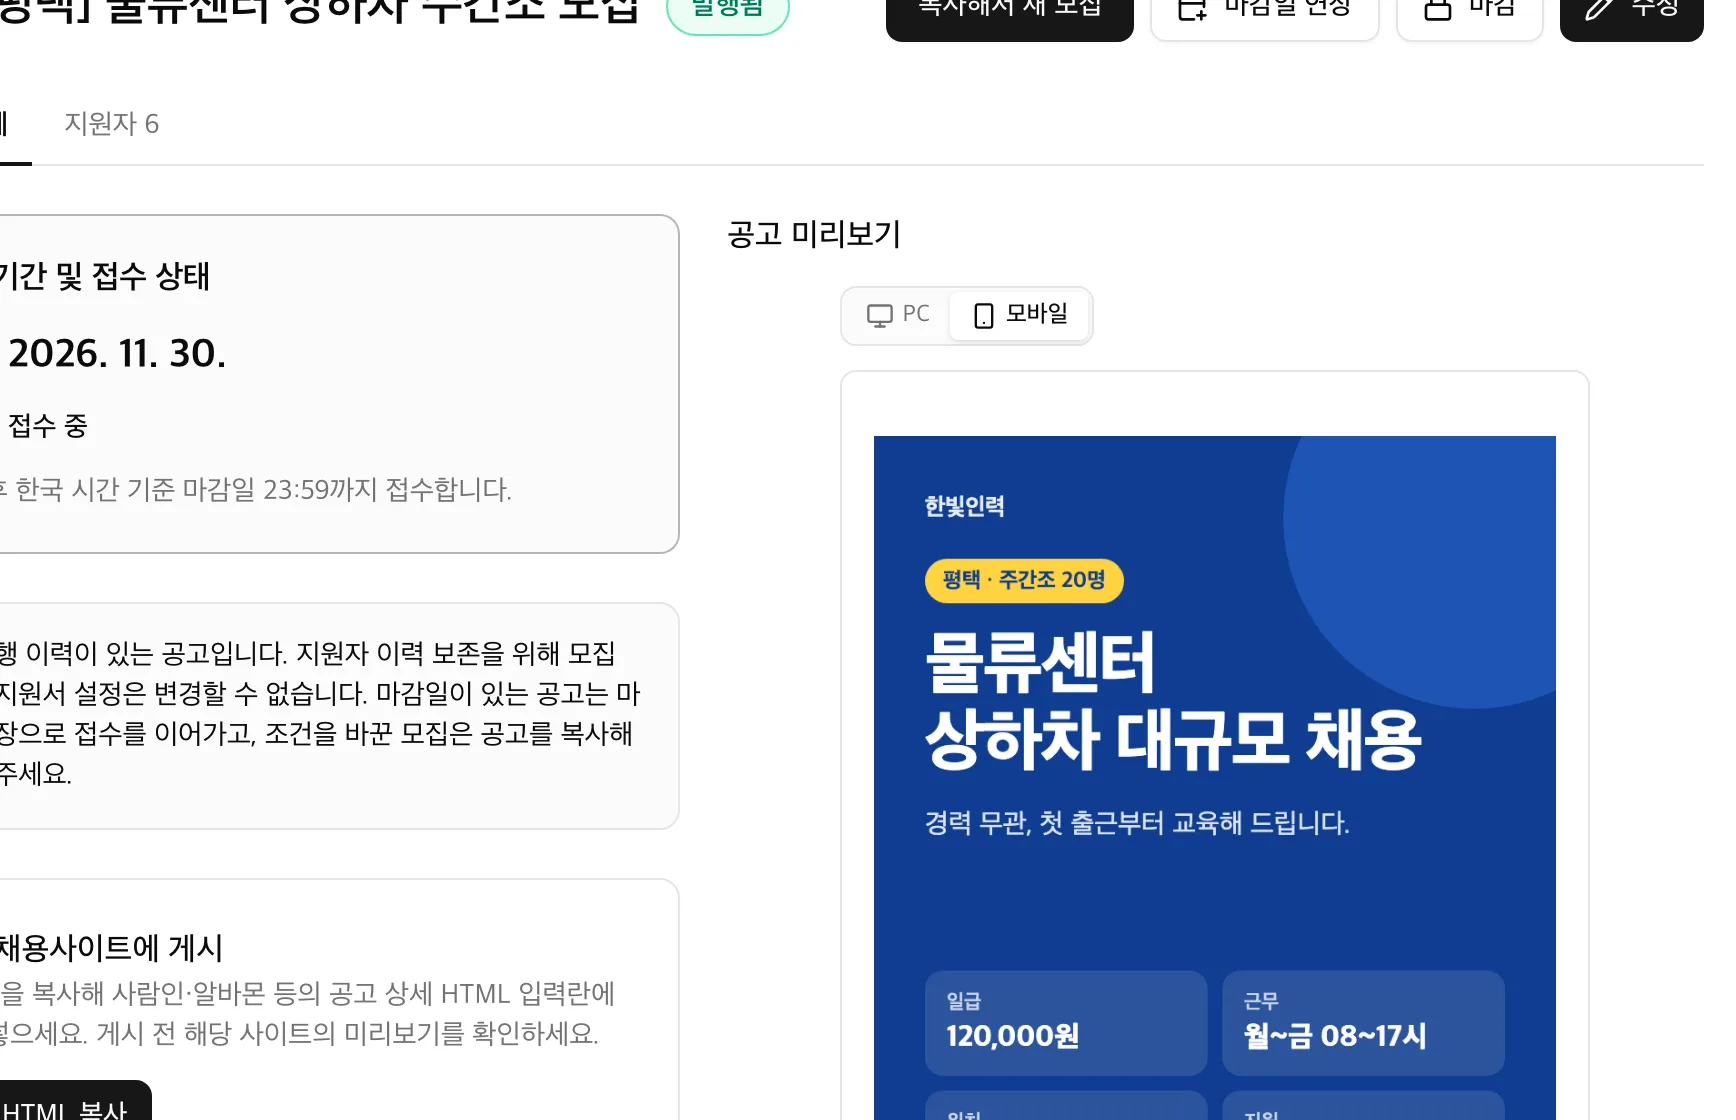
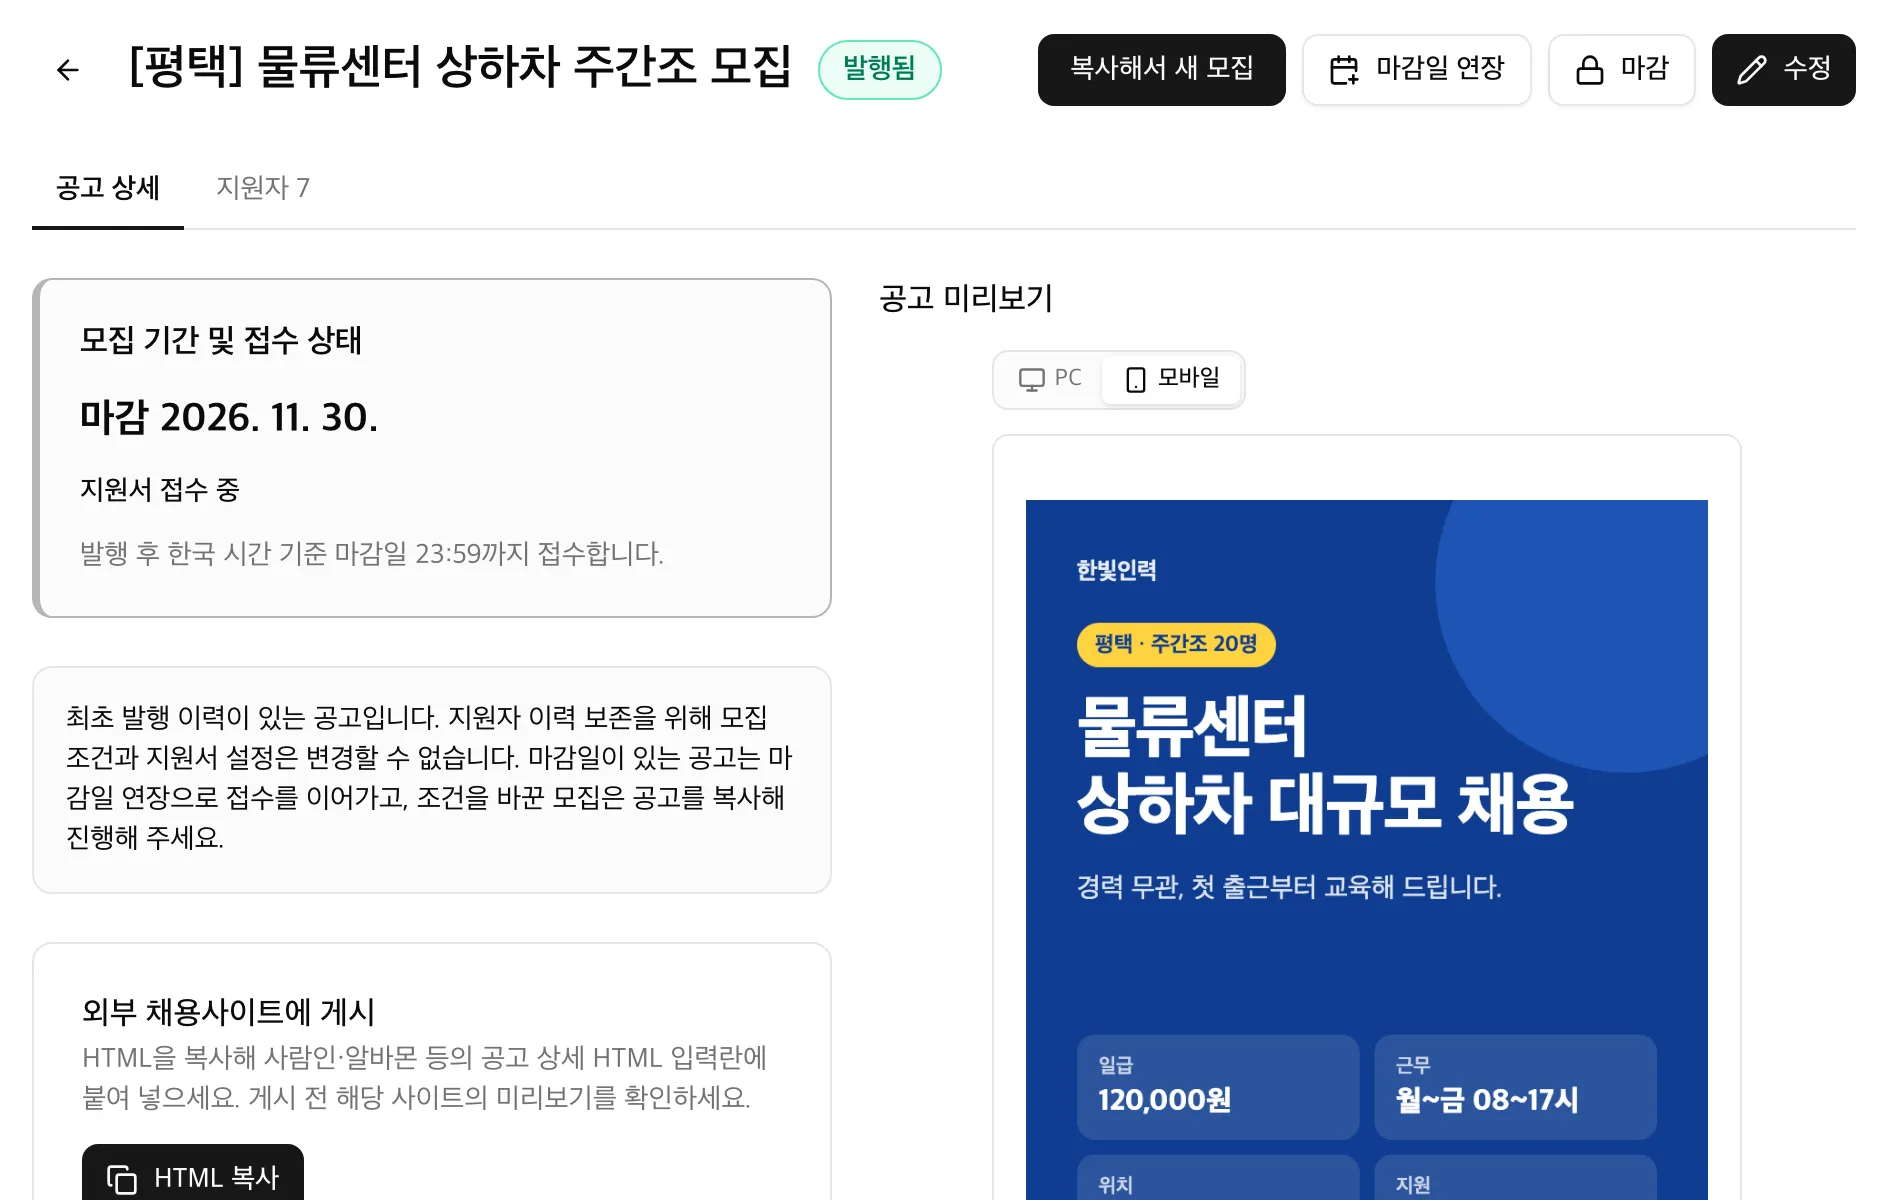
✨ feat(marketing): 모집 관리 랜딩 이메일 화면 이미지 추가·공고 상세 이미지 재캡처

diff --git a/src/lib/marketing/decks/recruiting.ts b/src/lib/marketing/decks/recruiting.ts
@@ -15,6 +15,12 @@ const EMAIL_FEATURE: DeckLandingFeature = {
   headline: '새 지원 소식을 메일로',
   description:
     '지원자가 이메일을 입력하면 제출 직후 접수 완료 메일이 가고, 회신하면 공고 담당자에게 전달됩니다. 담당자는 전날 새 지원자가 있으면 매일 오전 9시에 공고별 새 지원자 수를 요약 메일로 받습니다(지원자 개인정보는 담지 않습니다). 두 메일 모두 공고별로 끌 수 있습니다.',
+  image: {
+    src: '/marketing/recruiting/email.webp',
+    alt: '지원자가 받는 접수 완료 메일 — 회사 이름으로 발송',
+    width: 868,
+    height: 470,
+  },
 }
 
 const AI_FEATURE: DeckLandingFeature = {
@@ -166,8 +172,8 @@ export const recruitingLanding: DeckLandingContent = {
       image: {
         src: '/marketing/recruiting/posting.webp',
         alt: '공고 상세 화면 — 접수 상태, HTML 복사, 공고 미리보기',
-        width: 1736,
-        height: 1120,
+        width: 1900,
+        height: 1200,
       },
     },
     {
